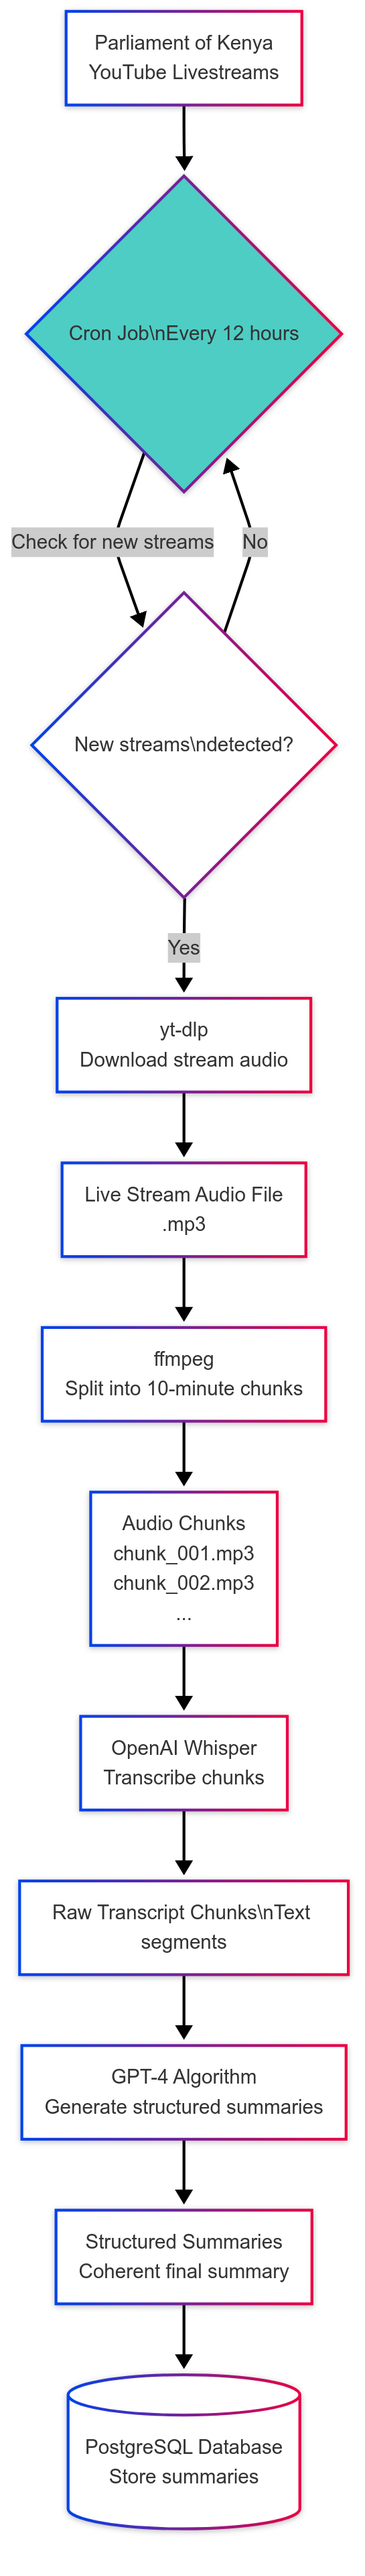
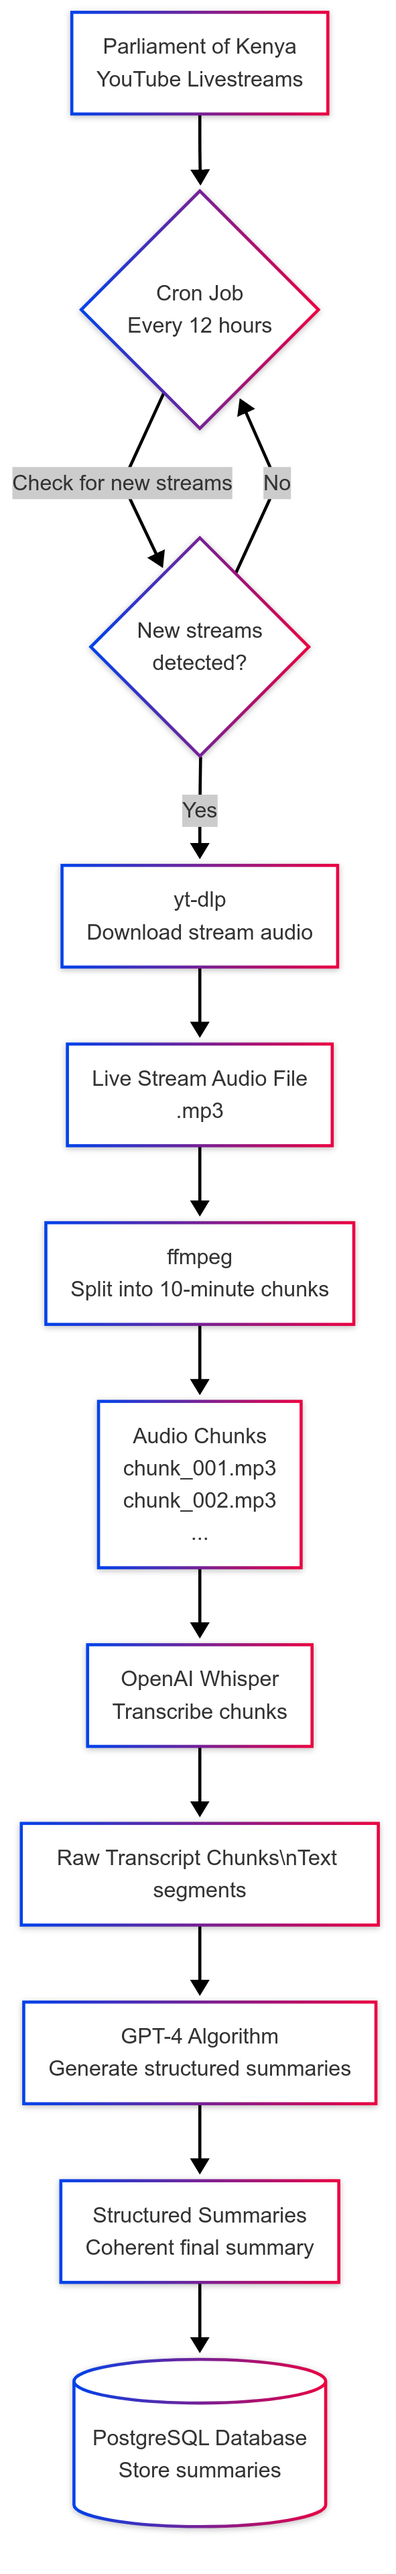
Update documentation

diff --git a/building-bunge-bits/index.html b/building-bunge-bits/index.html
@@ -558,7 +558,7 @@ pre { box-sizing: border-box; margin: 0 0 1.75em 0; width: 100%; padding: 5px 10
 <p>Here’s how data flows through the system:</p>
 
 <p align="center">
-  <img src="/assets/images/bunge-bits-pipeline.png" alt="bunge-bits Pipeline Diagram" width="300" />
+  <img src="/assets/images/bunge-bits-pipeline.png" alt="bunge-bits Pipeline Diagram" width="150" />
 </p>
 
 <h1 id="engineering-challenges">Engineering Challenges</h1>
